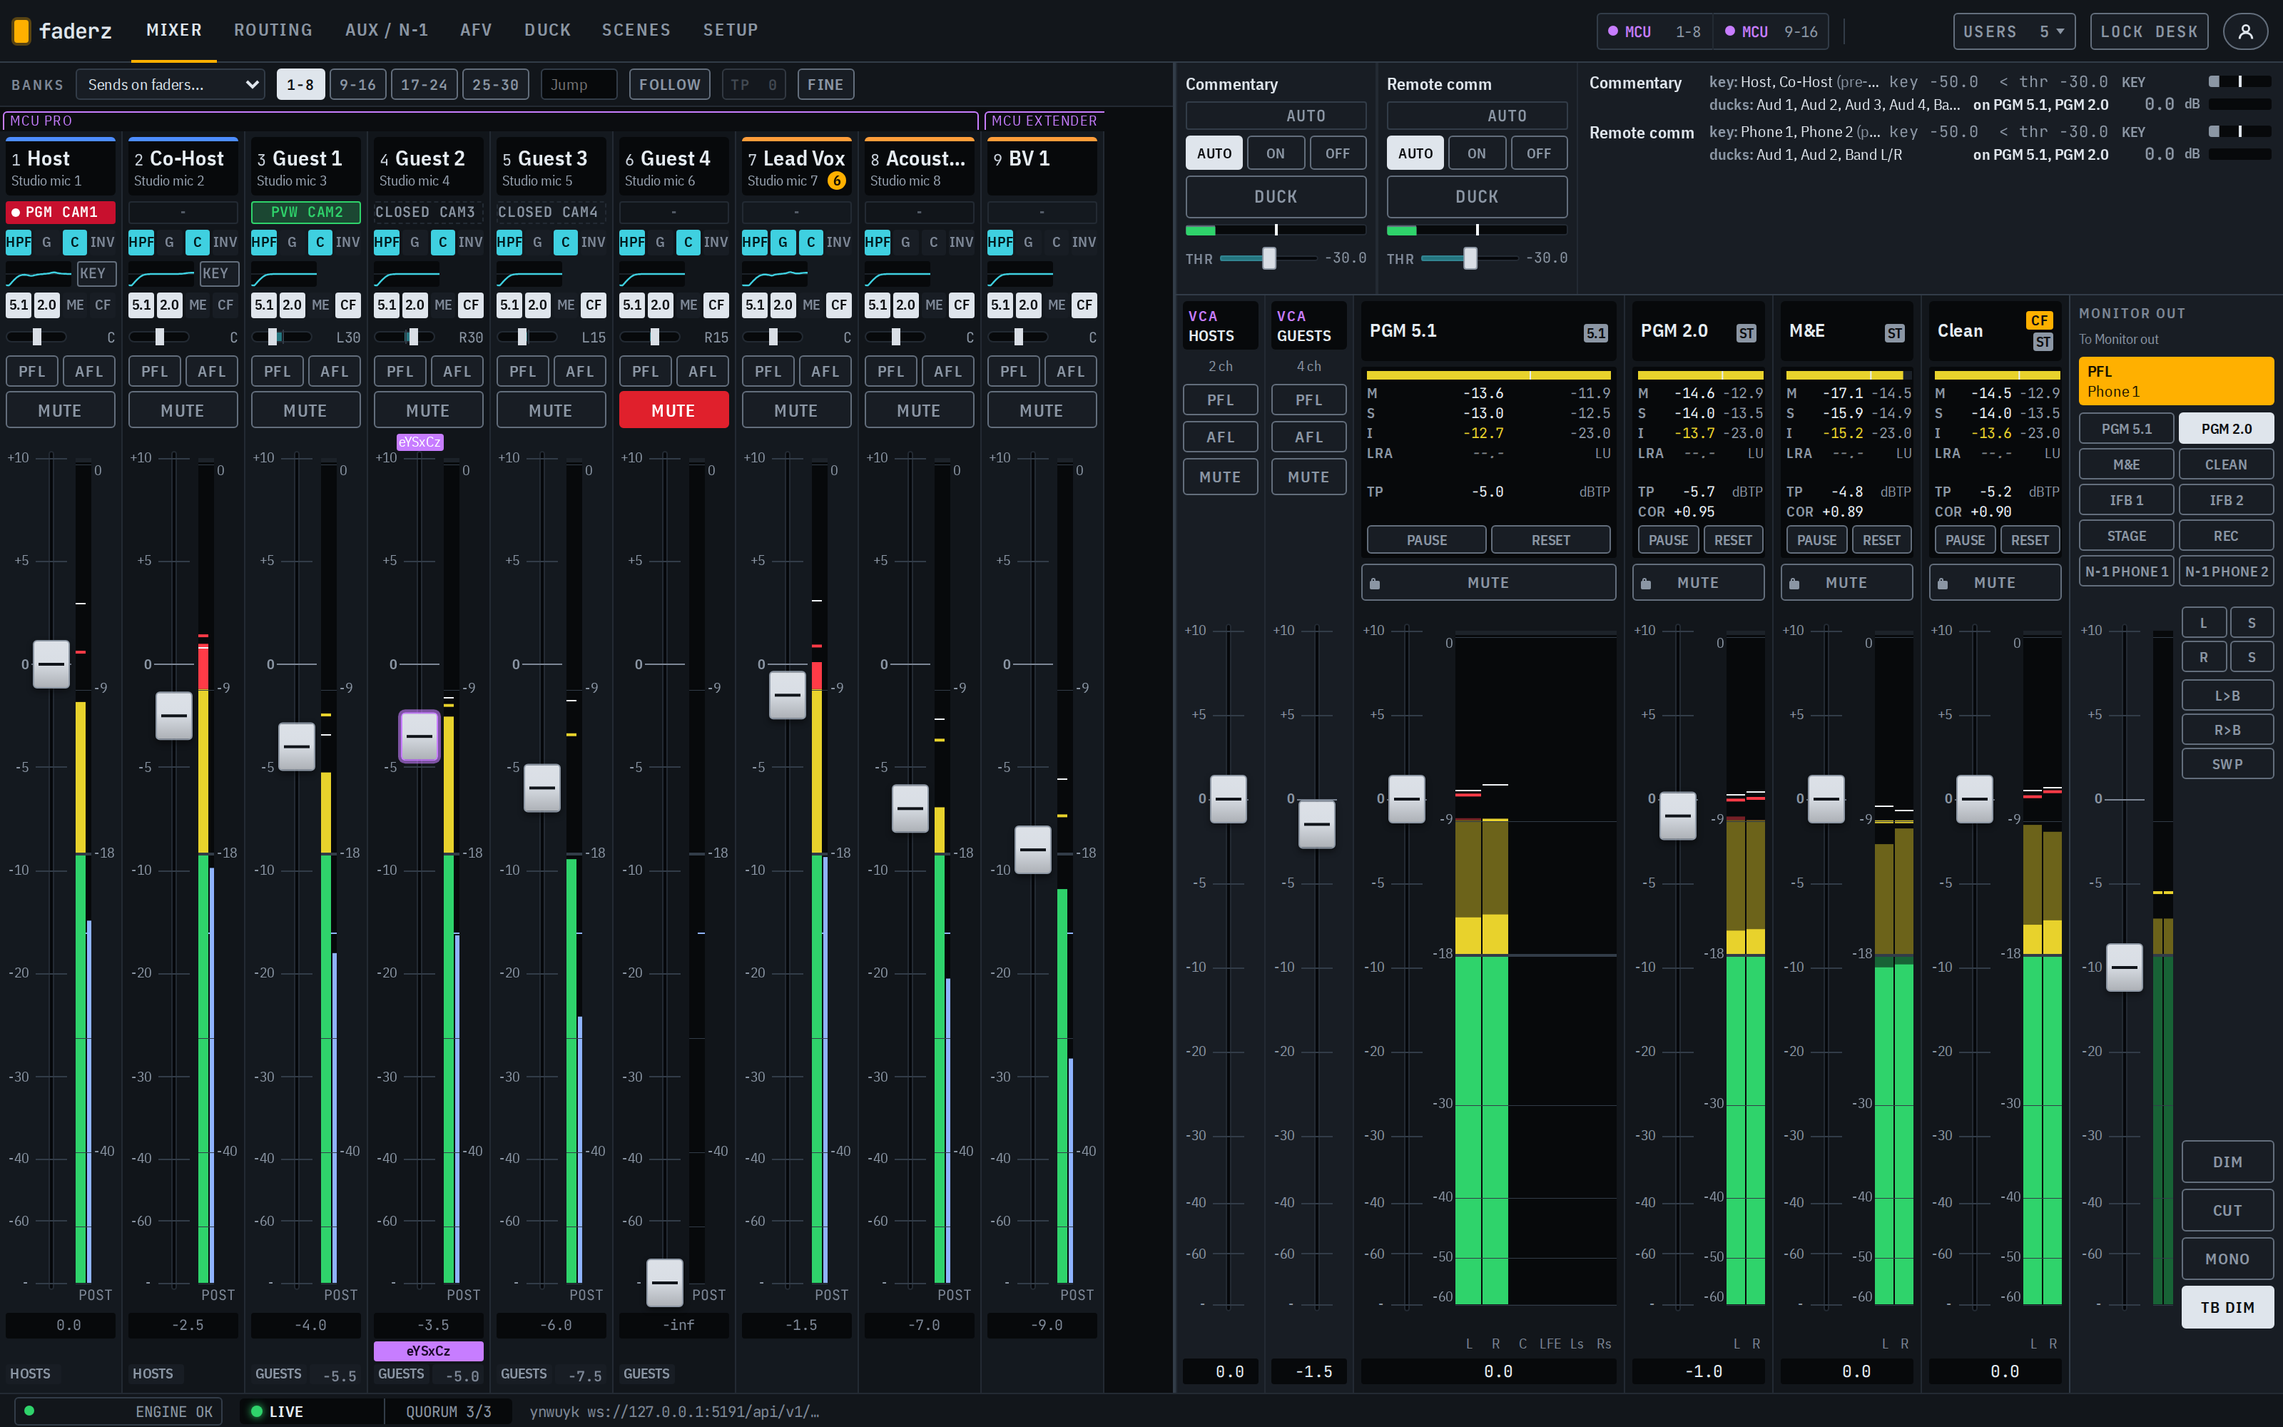
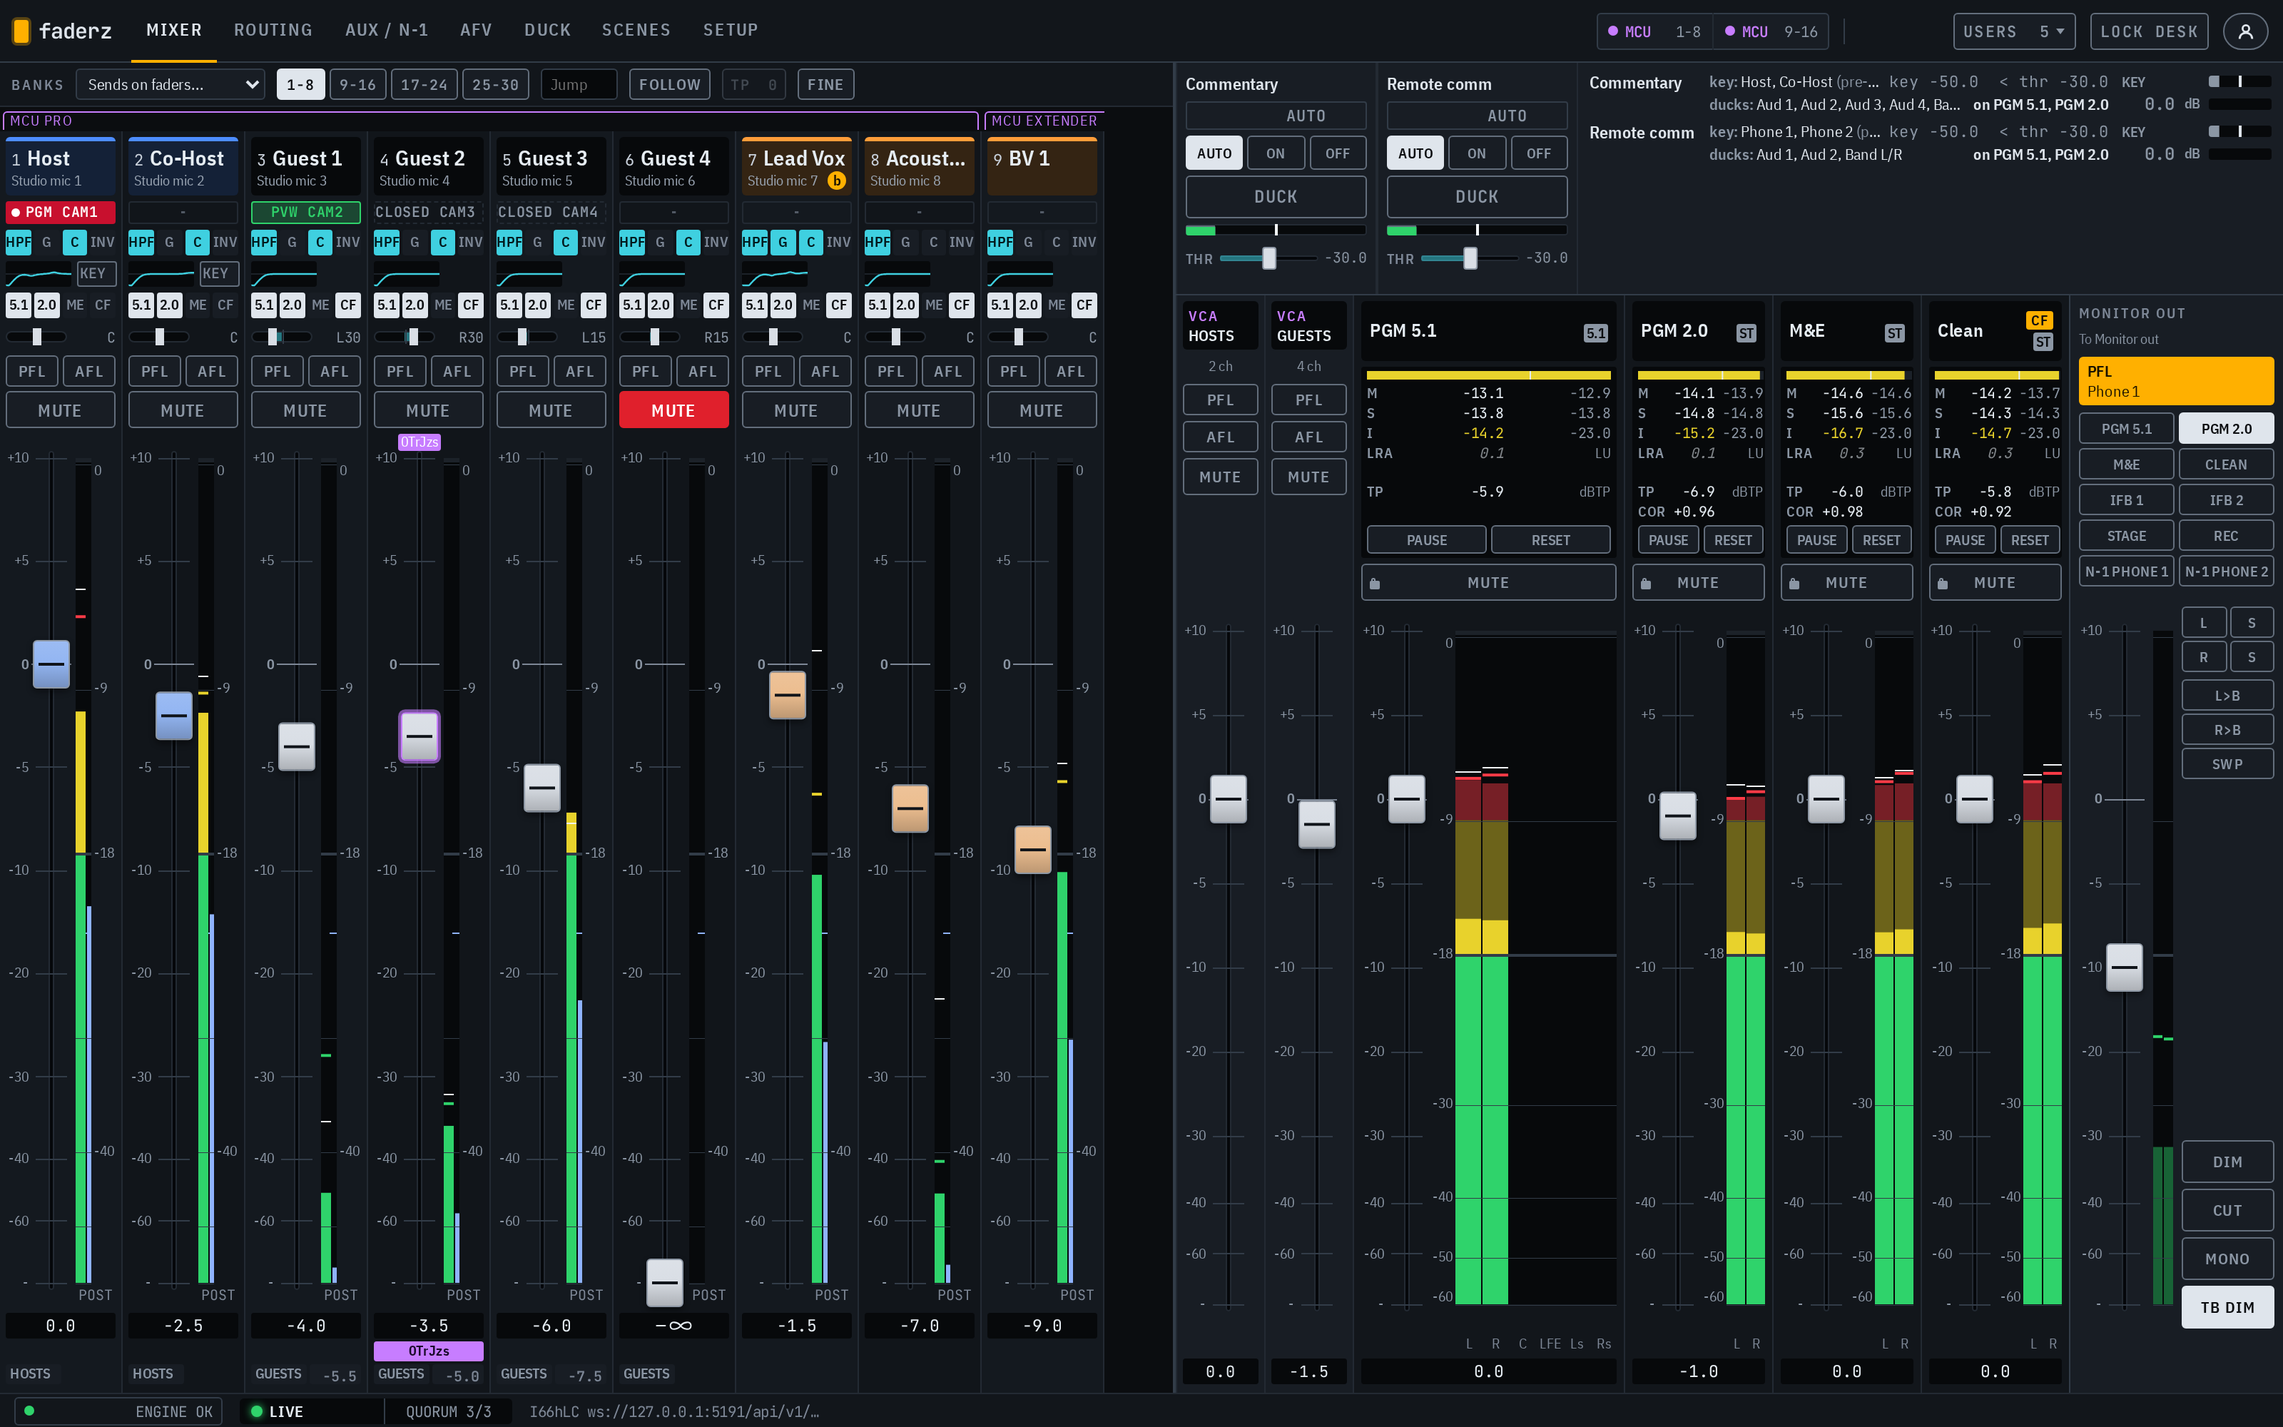
feat(web): tint a coloured channel's scribble strip and fader cap (#198)
* feat(web): tint a coloured channel's scribble strip and fader cap

A channel's colour showed only as a 3 px band at the top of its
scribble strip, which is easy to miss. The strip's background now
takes 18 % of the colour over the dark well, which is dark in both
themes, so the name and source keep their contrast, and a channel
fader's cap face takes 35 %. The cap's edge and rings, which show who
holds the fader and a refused gesture, are left as they are and still
show over the tint. A channel without a colour is unchanged.

The colour is set once per strip as --strip-color; bus, VCA and master
faders take no tint. Contrast tests read the colours, mixes and inks
from the components and check every colour in both themes.

* fix(web): tint the dark theme's caps more, and test every head ink

On the light cap of the dark theme a 35 % tint read as pale grey. How
much of the colour a cap takes is now the theme's --cap-tint: 50 % in
the dark theme, 35 % in the light one.

The contrast tests check the name, number and source inks of a tinted
scribble strip, the source being the tightest, read --cap-tint per
theme, and take the colour list from SCRIBBLE_COLORS. The e2e test
compares a tinted cap's ownership rings with a plain cap's held the
same way. The strip carries data-color alone.

* test(web): read the held cap's ring once the refuse flash is over

* test(web): pin a held cap's rings against the strip around it
[…]

diff --git a/web/tests/e2e/mixer.spec.ts b/web/tests/e2e/mixer.spec.ts
@@ -1464,7 +1464,7 @@ test('shows the source under the channel name and colours the scribble strip fro
   const before = (await head.boundingBox())!.height;
   await head.click();
   await page.getByRole('radiogroup', { name: 'Guest 1 strip colour' }).getByRole('radio', { name: 'red' }).click();
-  await expect(head).toHaveAttribute('data-color', 'red');
+  await expect(page.locator('[data-channel="ch3"]')).toHaveAttribute('data-color', 'red');
   await expect.poll(async () => (await serverState(request)).state.channels['ch3']!.color).toBe('red');
   expect((await head.boundingBox())!.height).toBe(before);
   await page.getByRole('radiogroup', { name: 'Guest 1 strip colour' }).getByRole('radio', { name: 'No colour' }).click();
@@ -1500,6 +1500,65 @@ test('SELECT on a surface opens the panel on every following screen, and no scre
   await expect(guest1(second)).toBeVisible();
   await expect(guest2(page)).toBeVisible();
   await second.close();
+});
+
+test('tints the scribble strip and fader cap of a coloured channel, and the cap still shows who holds it', { tag: '@mock' }, async ({ page, baseURL }) => {
+  await page.emulateMedia({ reducedMotion: 'reduce' });
+  await live(page);
+  // ch1 is blue in the mock, ch4 has no colour.
+  const blue = page.locator('[data-channel="ch1"]');
+  const plain = page.locator('[data-channel="ch4"]');
+  const style = (l: ReturnType<Page['locator']>, prop: 'backgroundColor' | 'backgroundImage' | 'borderTopColor' | 'boxShadow') =>
+    l.evaluate((e, p) => getComputedStyle(e)[p], prop);
+  /** A theme token as the page computes it. */
+  const token = (name: string) =>
+    page.evaluate((n) => {
+      const probe = document.createElement('i');
+      probe.style.color = `var(${n})`;
+      document.body.append(probe);
+      const c = getComputedStyle(probe).color;
+      probe.remove();
+      return c;
+    }, name);
+  expect(await style(blue.locator('.head'), 'backgroundColor')).not.toBe(await style(plain.locator('.head'), 'backgroundColor'));
+  expect(await style(blue.locator('.cap'), 'backgroundImage')).not.toBe(await style(plain.locator('.cap'), 'backgroundImage'));
+  const cap = blue.locator('.cap');
+  const other = await RawClient.open(baseURL!);
+  try {
+    // Held by another session: the --owned edge and ring, as on a plain cap held the same way.
+    const plainCap = plain.locator('.cap');
+    for (const ch of ['ch1', 'ch4']) expect((await other.command({ type: 'touch', path: `/channels/${ch}/fader` })).type).toBe('delta');
+    await expect(cap).toHaveClass(/foreign/);
+    await expect(plainCap).toHaveClass(/foreign/);
+    const owned = await token('--owned');
+    await expect.poll(() => style(cap, 'borderTopColor')).toBe(owned);
+    expect(await style(cap, 'boxShadow')).toBe(await style(plainCap, 'boxShadow'));
+    expect((await other.command({ type: 'release', path: '/channels/ch4/fader' })).type).toBe('delta');
+    // A refused gesture flashes the --err ring over the tint.
+    await dragFader(page, '/channels/ch1/fader', -40);
+    await expect.poll(() => style(cap, 'boxShadow')).toContain(await token('--err'));
+    expect((await other.command({ type: 'release', path: '/channels/ch1/fader' })).type).toBe('delta');
+  } finally {
+    other.close();
+  }
+  // Held here: the --on edge and ring, as on a plain cap held here, once the refuse flash is over.
+  const err = await token('--err');
+  await expect.poll(() => style(cap, 'boxShadow')).not.toContain(err);
+  const held = async (ch: string) => {
+    const c = page.locator(`[data-channel="${ch}"] .cap`);
+    const at = await faderCenter(page, `/channels/${ch}/fader`);
+    await page.mouse.move(at.x, at.y);
+    await page.mouse.down();
+    try {
+      await expect(c).toHaveClass(/mine/);
+      const on = await token('--on');
+      await expect.poll(() => style(c, 'borderTopColor')).toBe(on);
+      return await style(c, 'boxShadow');
+    } finally {
+      await page.mouse.up();
+    }
+  };
+  expect(await held('ch1')).toBe(await held('ch4'));
 });
 
 test('opens the engine counters above the lamp, inside the viewport, at desktop and phone widths', async ({ page }) => {

diff --git a/web/tests/unit/contrast.test.ts b/web/tests/unit/contrast.test.ts
@@ -3,6 +3,7 @@
 
 import { readFileSync } from 'node:fs';
 import { describe, expect, it } from 'vitest';
+import { SCRIBBLE_COLORS } from '../../src/lib/contract/types';
 
 const css = readFileSync(new URL('../../src/app.css', import.meta.url), 'utf8');
 
@@ -91,4 +92,65 @@ describe.each([
 
 it('separates alternate strips in the light theme', () => {
   expect(contrast(light['strip']!, light['strip-alt']!)).toBeGreaterThanOrEqual(1.1);
+});
+
+/** color-mix(in srgb, a p%, b) as browsers compute it: per channel, gamma encoded. */
+function mix(a: string, p: number, b: string): string {
+  const ch = (hex: string, i: number) => parseInt(hex.slice(i, i + 2), 16);
+  return `#${[1, 3, 5].map((i) => Math.round(ch(a, i) * (p / 100) + ch(b, i) * (1 - p / 100)).toString(16).padStart(2, '0')).join('')}`;
+}
+
+describe('channel colours', () => {
+  const strip = readFileSync(new URL('../../src/components/ChannelStrip.svelte', import.meta.url), 'utf8');
+  const fader = readFileSync(new URL('../../src/components/Fader.svelte', import.meta.url), 'utf8');
+  const colours = [...strip.matchAll(/\.strip\[data-color='([a-z]+)'\] \{ --strip-color: (#[0-9a-f]{6}); \}/g)].map((m) => [m[1]!, m[2]!] as const);
+  /** The text colour of the first rule of ChannelStrip.svelte with exactly this selector. */
+  const ink = (selector: string) => new RegExp(`\\n  ${selector.replace('.', '\\.')} \\{[^}]*\\n    color: (#[0-9a-f]{6});`).exec(strip)![1]!;
+  const inks = ['.head', '.no', '.source'].map((sel) => [sel, ink(sel)] as const);
+  const headMix = Number(/var\(--strip-color, var\(--well\)\) (\d+)%, var\(--well\)/.exec(strip)![1]);
+  /** --cap-tint of a theme block of app.css. */
+  const capTint = (selector: string) => {
+    const at = css.indexOf(`${selector} {`);
+    return Number(/--cap-tint:\s*(\d+)%/.exec(css.slice(at, css.indexOf('}', at)))![1]);
+  };
+  const capLine = /\n  \.cap span \{[^}]*background: (#[0-9a-f]{6});/.exec(fader)![1]!;
+
+  it('tints a fader cap by the --cap-tint of its theme', () => {
+    expect(fader).toContain('color-mix(in srgb, ${tint} var(--cap-tint), var(--cap))');
+  });
+
+  it('has a tint for every colour of the strip colour picker', () => {
+    expect(colours.map(([name]) => name)).toEqual(SCRIBBLE_COLORS.filter((c) => c !== 'none'));
+  });
+
+  describe.each([
+    ['dark', dark, capTint(':root')],
+    ['light', light, capTint(":root[data-theme='light']")],
+  ])('%s theme', (theme, t, tint) => {
+    it.each(colours)('a %s scribble strip stays dark: its name, number and source read', (_name, colour) => {
+      const head = mix(colour, headMix, t['well']!);
+      for (const [, c] of inks) expect(contrast(c, head)).toBeGreaterThanOrEqual(4.5);
+    });
+    it('a selected strip shows its --on ring against the strip around it, tinted or not', () => {
+      expect(contrast(t['on']!, t['strip-sel']!)).toBeGreaterThanOrEqual(3);
+    });
+    // Guards the colours, --cap and the line's ink: on these caps no share
+    // of the colour would make the line less clear than on a plain one.
+    // The mine and foreign rings sit on the strip outside the cap, so a tint
+    // never touches what they read against; this pins them at their values
+    // before the tint, so a change to the ring or strip tokens shows.
+    it('a held cap shows its mine and foreign rings against the strip, tinted or not', () => {
+      const ring = (token: string) => {
+        const p = Number(new RegExp(`color-mix\\(in srgb, var\\(--${token}\\) (\\d+)%, transparent\\)`).exec(fader)![1]);
+        return contrast(mix(t[token]!, p, t['strip']!), t['strip']!);
+      };
+      const before = theme === 'dark' ? { on: 7.36, owned: 3.15 } : { on: 4.95, owned: 2.87 };
+      expect(ring('on')).toBeGreaterThanOrEqual(before.on);
+      expect(ring('owned')).toBeGreaterThanOrEqual(before.owned);
+    });
+    it.each(colours)('a %s fader cap keeps its centre line as clear as a plain one', (_name, colour) => {
+      const face = mix(colour, tint, t['cap']!);
+      expect(contrast(capLine, face)).toBeGreaterThanOrEqual(Math.min(3, contrast(capLine, t['cap']!)));
+    });
+  });
 });

diff --git a/web/src/components/ChannelStrip.svelte b/web/src/components/ChannelStrip.svelte
@@ -113,10 +113,9 @@
   }
 </script>
 
-<section class="strip" class:sof={sendsTo !== null} class:selected class:alt={index % 2 === 1} aria-label={`Channel ${index + 1} ${channel.name}`} data-channel={channel.id}>
+<section class="strip" class:sof={sendsTo !== null} class:selected class:alt={index % 2 === 1} aria-label={`Channel ${index + 1} ${channel.name}`} data-channel={channel.id} data-color={st.color}>
   <button
     class="head"
-    data-color={st.color}
     onclick={() => onselect(channel.id)}
     aria-pressed={selected}
     use:tip={`${tone ? `${channel.name} (${toneText})` : channel.source ? `${channel.name} (${channel.source})` : channel.name}${safe.length > 0 ? `; recall safe: ${safe.join(', ')}` : ''}${selectorsText ? `; ${selectorsText}` : ''}`}
@@ -256,7 +255,7 @@
   </div>
 
   <div class="fm">
-    <Fader path={levelPath} label={sendsTo ? `${channel.name} send to ${sendsTo.name}` : `${channel.name} fader`} />
+    <Fader path={levelPath} label={sendsTo ? `${channel.name} send to ${sendsTo.name}` : `${channel.name} fader`} tint={st.color === 'none' ? undefined : 'var(--strip-color)'} />
     <div class="meter">
       <Meter group="channels" id={channel.id} legs={channel.width} scale="right" label={`${channel.name} meter, ${TAP_LABEL[meterTap]}`} />
       <!-- The meter tap, in the meter's bottom padding, and over it a key
@@ -347,17 +346,19 @@
     cursor: pointer;
     padding: 2px 4px 3px;
     border-radius: 3px;
-    border-top: 3px solid transparent;
-    background: var(--well);
+    /* The strip's colour: the band, and a tint of the dark scribble strip
+       that leaves it dark in both themes. Without one, the plain well. */
+    border-top: 3px solid var(--strip-color, transparent);
+    background: color-mix(in srgb, var(--strip-color, var(--well)) 18%, var(--well));
     color: #e6edf3;
   }
-  .head[data-color='red'] { border-top-color: #ff5a5f; }
-  .head[data-color='orange'] { border-top-color: #ff9d3a; }
-  .head[data-color='yellow'] { border-top-color: #f2d53c; }
-  .head[data-color='green'] { border-top-color: #3ccf75; }
-  .head[data-color='cyan'] { border-top-color: #3fd0e0; }
-  .head[data-color='blue'] { border-top-color: #4d8dff; }
-  .head[data-color='purple'] { border-top-color: #b07cff; }
+  .strip[data-color='red'] { --strip-color: #ff5a5f; }
+  .strip[data-color='orange'] { --strip-color: #ff9d3a; }
+  .strip[data-color='yellow'] { --strip-color: #f2d53c; }
+  .strip[data-color='green'] { --strip-color: #3ccf75; }
+  .strip[data-color='cyan'] { --strip-color: #3fd0e0; }
+  .strip[data-color='blue'] { --strip-color: #4d8dff; }
+  .strip[data-color='purple'] { --strip-color: #b07cff; }
   .head:focus-visible {
     outline: 2px solid var(--focus);
   }

diff --git a/web/src/components/Fader.svelte b/web/src/components/Fader.svelte
@@ -8,8 +8,10 @@
     path: string;
     label: string;
     scale?: boolean;
+    /** A colour the cap's face takes on in part; its edge and rings still show ownership. */
+    tint?: string;
   }
-  let { path, label, scale = true }: Props = $props();
+  let { path, label, scale = true, tint }: Props = $props();
 
   const mixer = getMixer();
   const value = $derived(mixer.value<number>(path) ?? FADER_OFF_DB);
@@ -174,7 +176,7 @@
     {/each}
     <div class="range">
       <div class="travel" style:transform="translateY({(1 - position) * 100}%)">
-        <div class="cap" class:mine class:foreign><span></span></div>
+        <div class="cap" class:mine class:foreign style:--face={tint ? `color-mix(in srgb, ${tint} var(--cap-tint), var(--cap))` : undefined}><span></span></div>
       </div>
     </div>
   </div>
@@ -298,7 +300,7 @@
     right: 1px;
     height: 34px;
     border-radius: 3px;
-    background: linear-gradient(180deg, color-mix(in srgb, var(--cap) 92%, white) 0%, var(--cap) 45%, color-mix(in srgb, var(--cap) 80%, black) 100%);
+    background: linear-gradient(180deg, color-mix(in srgb, var(--face, var(--cap)) 92%, white) 0%, var(--face, var(--cap)) 45%, color-mix(in srgb, var(--face, var(--cap)) 80%, black) 100%);
     border: 1px solid var(--cap-edge);
     box-shadow: 0 2px 4px rgba(0, 0, 0, 0.45);
     pointer-events: none;

diff --git a/web/src/app.css b/web/src/app.css
@@ -23,6 +23,9 @@
   /* Edge of an unlit key: at least 3:1 against the key and the panels (WCAG 1.4.11). */
   --key-edge: #636e7c;
   --cap: #d9dee5;
+  /* How much of a channel's colour its fader cap takes: more on the light
+     cap of the dark theme, where a pale tint reads as grey. */
+  --cap-tint: 50%;
   --cap-edge: #8e98a5;
   --track: #05070a;
 
@@ -99,6 +102,7 @@
   --text-faint: #5d6772;
   --key-edge: #6f7985;
   --cap: #2a3038;
+  --cap-tint: 35%;
   --cap-edge: #11151a;
   --track: #b9c0c9;
 

diff --git a/docs/CONSOLE.md b/docs/CONSOLE.md
@@ -24,6 +24,10 @@ session is anonymous, with auth mode none or token, it does so only on
 a screen with FOLLOW on: FOLLOW then covers both the surface's bank and
 its SELECT.
 
+A channel's strip colour shows as the band on its scribble strip, a
+tint of the strip's dark background and a tint of its fader cap; the
+cap's edge still shows who holds the fader.
+
 ![The mixer on a tablet in the light theme](screenshots/tablet-light.png)
 
 ## Status bar and connection
